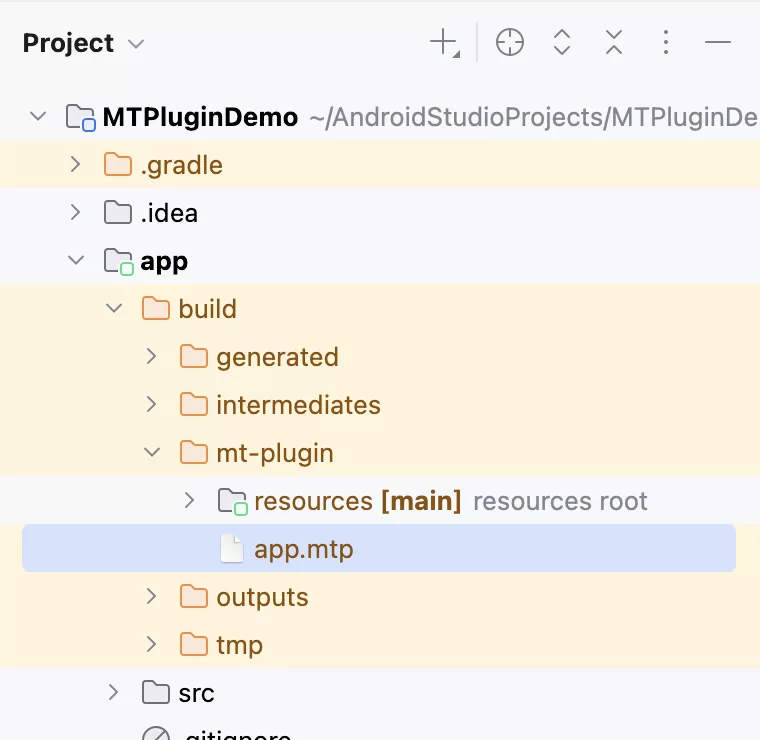
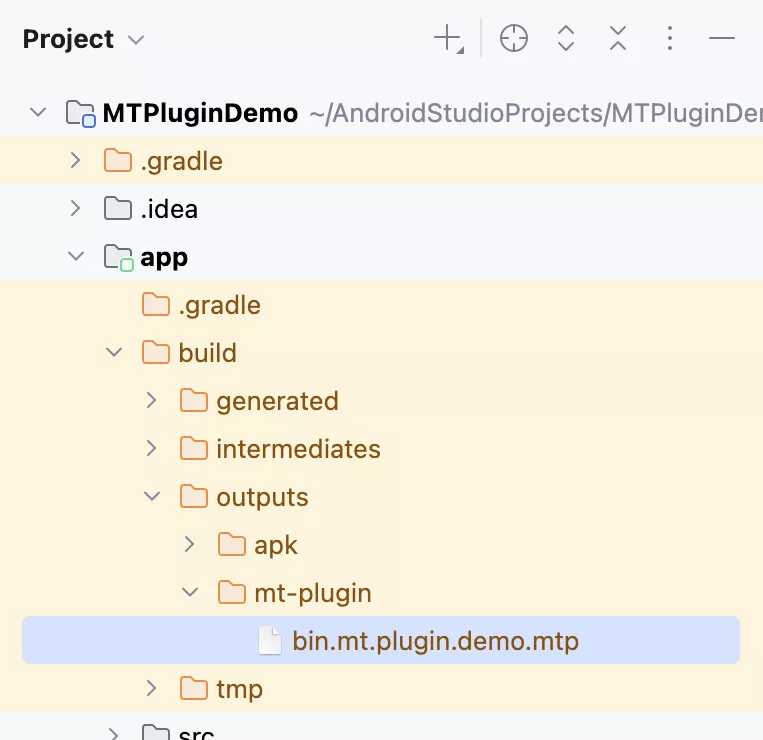
gradle插件升级到alpha2

diff --git a/README.MD b/README.MD
@@ -1,17 +1,23 @@
 # MT Plugin V3 Demo
 
-当前插件 SDK 版本为 3.0.0-alpha，这是一个不稳定版，后续仍会对 API 做进一步调整，该版本插件需要在 MT 管理器
-2.19.1 上运行。
+当前插件 SDK 还在测试阶段，并非稳定版，后续仍会对 API 进行优化与调整，具体请查看下面的更新记录。
 
 ## V3 版本功能亮点
 
 v2 版本的插件仅提供了翻译接口和简易的设置界面功能，在 v3 版本中我们进行了以下更新：
 
-### 一、升级至 Java 1.8
+### 一、使用 AGP 构建
 
-内置的插件 Java 编译器由 1.7 升级至 1.8，其中最重大的变化就是可以使用 Lambda 表达式，代码可以编写得更加简洁。
+v3 版本插件新增 dex 打包模式，可将 AGP 编译生成的 classes.dex 直接打包到 mtp 文件中，而非打包 .java 与 .jar 文件。
 
-另外现在 MT 管理器的 minSdk 是 21，因此这次也将编译器所使用系统库升级到了 Android 5.0。
+这意味着可以使用 AGP 的很多特性来进行 MT 插件开发：
+- 支持更高的 Java 版本（只要 AGP 支持）
+- 支持 coreLibraryDesugaring 核心库脱糖
+- 支持 Kotlin
+
+为此我们也专门开发了一个 gradle 插件：
+- 支持一键打包出 mtp 文件
+- 支持一键将 mtp 文件推送到手机上安装
 
 ### 二、新增 UI 组件接口
 
@@ -42,6 +48,21 @@ v2 版本的插件仅提供了翻译接口和简易的设置界面功能，在 v
 - `app/src/main/java/bin/mt/plugin/demo/preference/ExampleMain.java`
 
 ## 更新记录
+
+### gradle 插件 alpha2
+
+对应 MT 管理器版本号需大于 **25101600**
+
+- **[MT管理器]** 支持 dex 打包模式与指定插件的最低安卓版本
+- **[MT管理器]** 修复 `PluginPreference.Builder` 的 `title` 和 `subtitle` 没有转为本地化文本的问题
+- **[gradle插件]** 使用 dex 打包模式生成 mtp 文件（不支持设置成之前的源码打包模式）
+- **[gradle插件]** 内置 `plugin-api:alpha4` 和 `plugin-pusher:alpha` 依赖，无需手动添加
+- **[gradle插件]** 直接在 `build.gradle` 文件中配置 `manifest.json` 和 `pusher.conf` 文件，无需手动创建
+
+使用 dex 打包模式的 mtp 文件，其内部不包含 .java 和 .jar 文件，只有一个 classes.dex 文件，因此开发方式不再受 MT
+管理器内置的 Java 编译器限制，您可以使用更高的 Java 版本甚至 Kotlin 进行开发，只要最后能生成 dex 文件即可。
+
+现在 plugin-api 依赖直接内置在 gradle 插件中，因此后续的更新标题以 gradle 插件为主，而非 plugin-api
 
 ### plugin-api alpha4
 
@@ -104,7 +125,7 @@ v2 版本的插件仅提供了翻译接口和简易的设置界面功能，在 v
 
 1. 打开 Gradle 面板（一般在右上角的侧栏里）
 2. 运行 `app/Tasks/mt-plugin/packagePlugin` 任务
-3. 任务运行成功后可以在 `app/build/mt-plugin` 目录找到打包好的 mtp 插件安装包
+3. 任务运行成功后可以在 `app/build/outputs/mt-plugin` 目录找到打包好的 mtp 插件安装包
 
 <p>
   <img src="./img/gradle_pos.webp" alt="gradle" width="270">
@@ -114,7 +135,7 @@ v2 版本的插件仅提供了翻译接口和简易的设置界面功能，在 v
 ### 通过命令行
 
 1. 在项目根目录执行 `./gradlew app:packagePlugin`
-2. 命令执行成功后可以在 `app/build/mt-plugin` 目录找到打包好的 mtp 插件安装包
+2. 命令执行成功后可以在 `app/build/outputs/mt-plugin` 目录找到打包好的 mtp 插件安装包
 
 ## 如何测试插件功能
 
